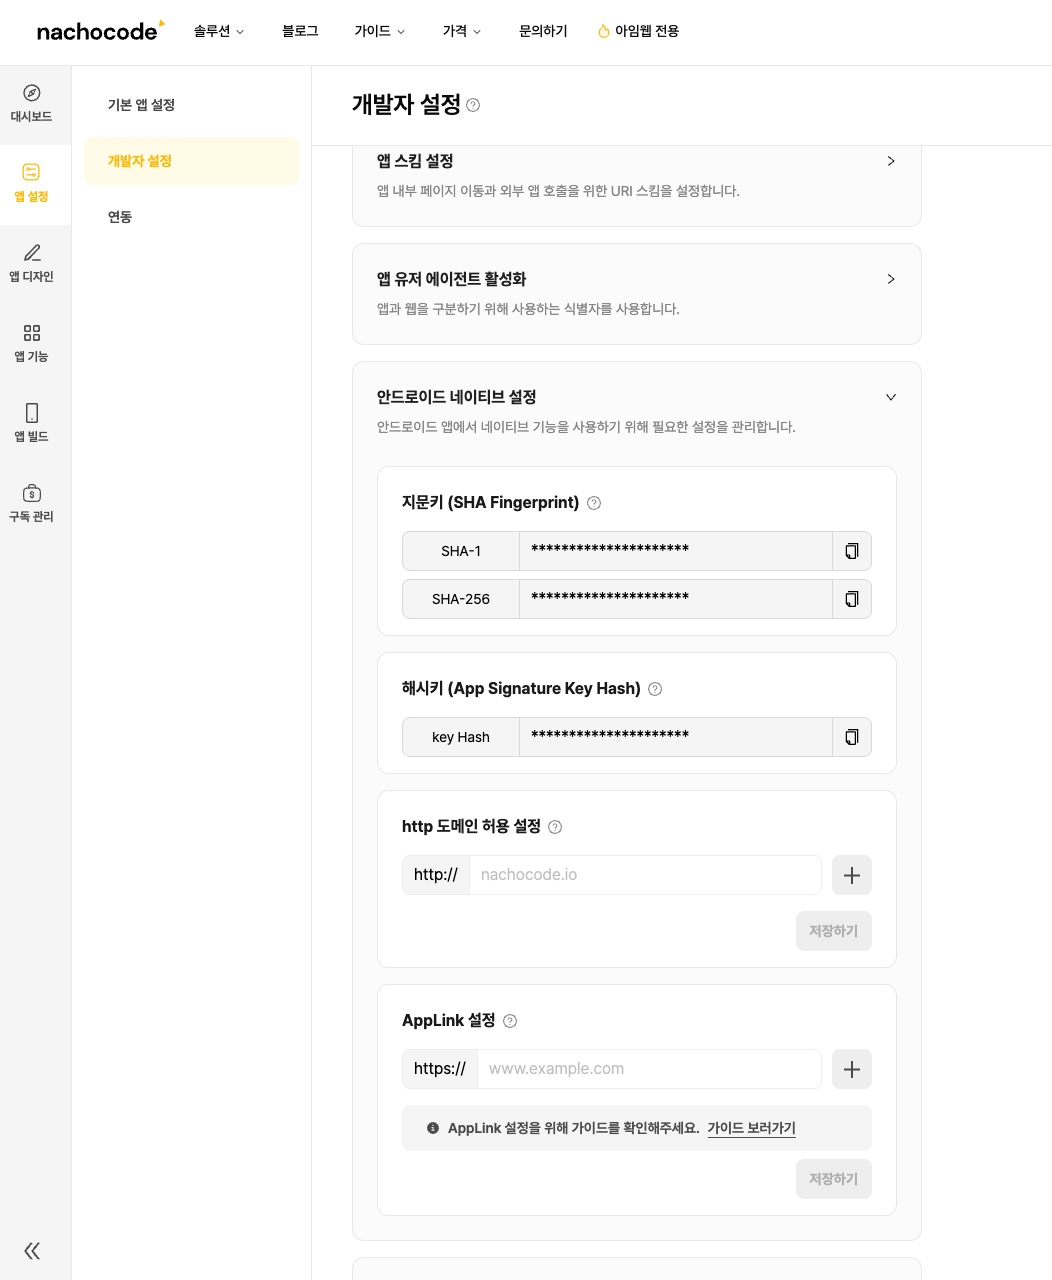
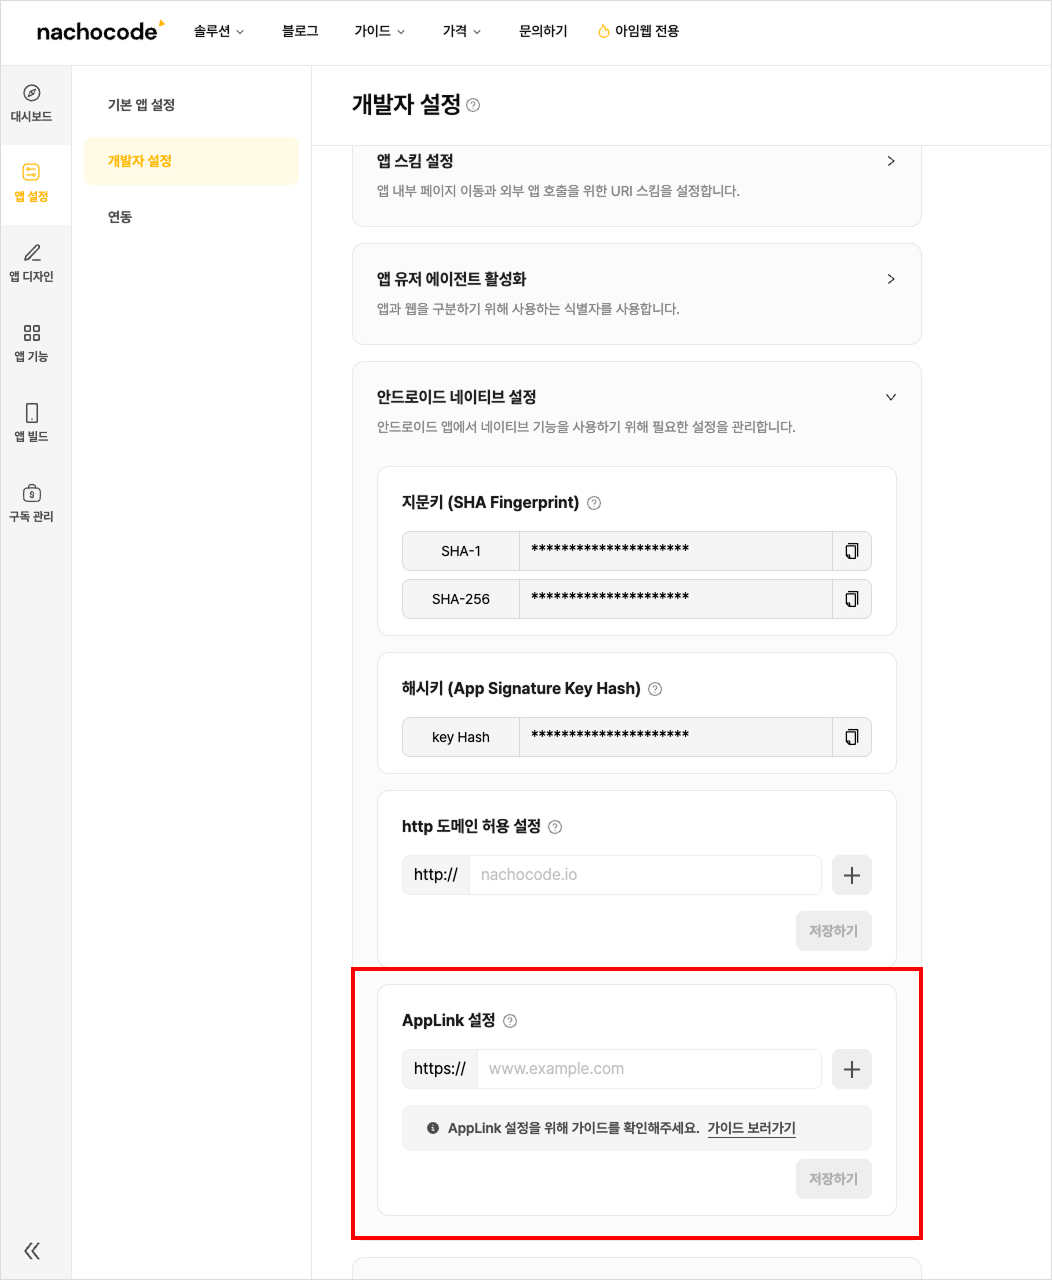
Update: app link, universal link guide image, content updated

Changed region(s): [[0.8517, 0.75, 0.8821, 0.9688], [0.3346, 0.9375, 0.365, 0.9688], [0.3346, 0.75, 0.365, 0.7812]]

diff --git a/docs/guide/deep-link/universal-link.md b/docs/guide/deep-link/universal-link.md
@@ -189,7 +189,7 @@ AASA 파일이 정상적으로 서빙되는지 확인이 되었다면 아래 설
 
 ### 4. nachocode 대시보드에서 앱 링크 설정 후 재빌드 {#set-nachocode-dashboard}
 
-#### 4-1. [ nachocode 대시보드 접속 ] → [ 앱 설정 ] → [ 개발자 설정 ] → [ iOS 네이티브 설정 ] → [ UniversalLink 설정 ] 접속
+#### 4-1. [ nachocode 대시보드 접속 ] → [ 앱 설정 ] → [ 개발자 설정 ] → [ iOS 네이티브 설정 ] → [ UniversalLink 설정 ] 열기
 
 ![nachocode_dashboard_universal_link](/img/docs/deep-link/nachocode_dashboard_universal_link.png)
 
@@ -204,19 +204,6 @@ AASA 파일이 정상적으로 서빙되는지 확인이 되었다면 아래 설
 :::info 공지
 대시보드에서 유니버셜 링크 설정이 완료된 후 앱을 다시 빌드 시 빌드된 앱의 `.entitlements`에 해당 도메인이 포함되어 있게 됩니다.
 :::
-
-<!-- ### 4. nachocode 대시보드 설정 {#set-nachocode-dashboard}
-
-:::warning 공지
-유니버셜 링크 설정 기능은 아직 대시보드에서 제공되고 있지 않습니다.
-현재는 수동 설정이 필요하오니 지금 사용을 희망하신다면 **nachocode 지원팀** [**support@nachocode.io**](mailto:support@nachocode.io)으로 요청 바랍니다.
-:::
-
-AASA 파일은 **HTTPS로 호스팅**되어야 하며, `https://<내도메인>/.well-known/apple-app-site-association`으로 반드시 접근 가능해야 합니다.
-
-nachocode로 빌드된 iOS 앱의 경우, nachocode 측에서 **앱 서명 시 연관 도메인(Associated Domains)** 설정에 도메인을 포함해야 유효한 유니버설 링크가 완성됩니다. 그러므로 AASA 파일을 준비한 후 [nachocode 지원팀](mailto:support@nachocode.io)에 **해당 도메인과 앱 정보를 전달**하여 앱에 연관도메인 설정을 할 수 있도록 요청 바랍니다.
-
-도메인 추가 및 설정이 완료된 후 **앱을 재빌드**해야 변경 사항이 적용됩니다. 빌드된 앱의 `.entitlements`에 해당 도메인이 포함되어 있게 됩니다. -->
 
 ---
 

diff --git a/docs/guide/deep-link/app-link.md b/docs/guide/deep-link/app-link.md
@@ -227,13 +227,16 @@ nachocode에서 만들어진 앱의 패키지명은 일반적으로 `com.nachoco
 
 `.well-known/assetlinks.json` 파일이 준비가 되었다면 Android 앱이 해당 도메인에 대한 앱 링크를 인식하도록 **앱 설정에도 도메인 정보를 추가**해야 합니다.
 
-#### 4-1. [ nachocode 대시보드 접속 ] → [ 앱 설정 ] → [ 개발자 설정 ] → [ 안드로이드 네이티브 설정 ] → [ AppLink 설정 ] 접속
+#### 4-1. [ nachocode 대시보드 접속 ] → [ 앱 설정 ] → [ 개발자 설정 ] → [ 안드로이드 네이티브 설정 ] → [ AppLink 설정 ] 열기
 
 ![nachocode_dashboard_app_link](/img/docs/deep-link/nachocode_dashboard_app_link.png)
 
 #### 4-2. 앱과 연결할 URL 혹은 도메인 패턴을 추가하여 [ 저장하기 ] 버튼 클릭
 
 ![nachocode_dashboard_app_link_example](/img/docs/deep-link/nachocode_dashboard_app_link_example.png)
+:::info 공지
+앱 링크는 서브 도메인에 대한 와일드카드(\*), 경로에 대한 와일드카드를 적용할 수 있습니다.
+:::
 
 #### 4-3. [ 앱 빌드 ] → [ 안드로이드 앱 빌드 ] → [ 새 버전 만들기 ] 버튼을 클릭하여 빌드
 
